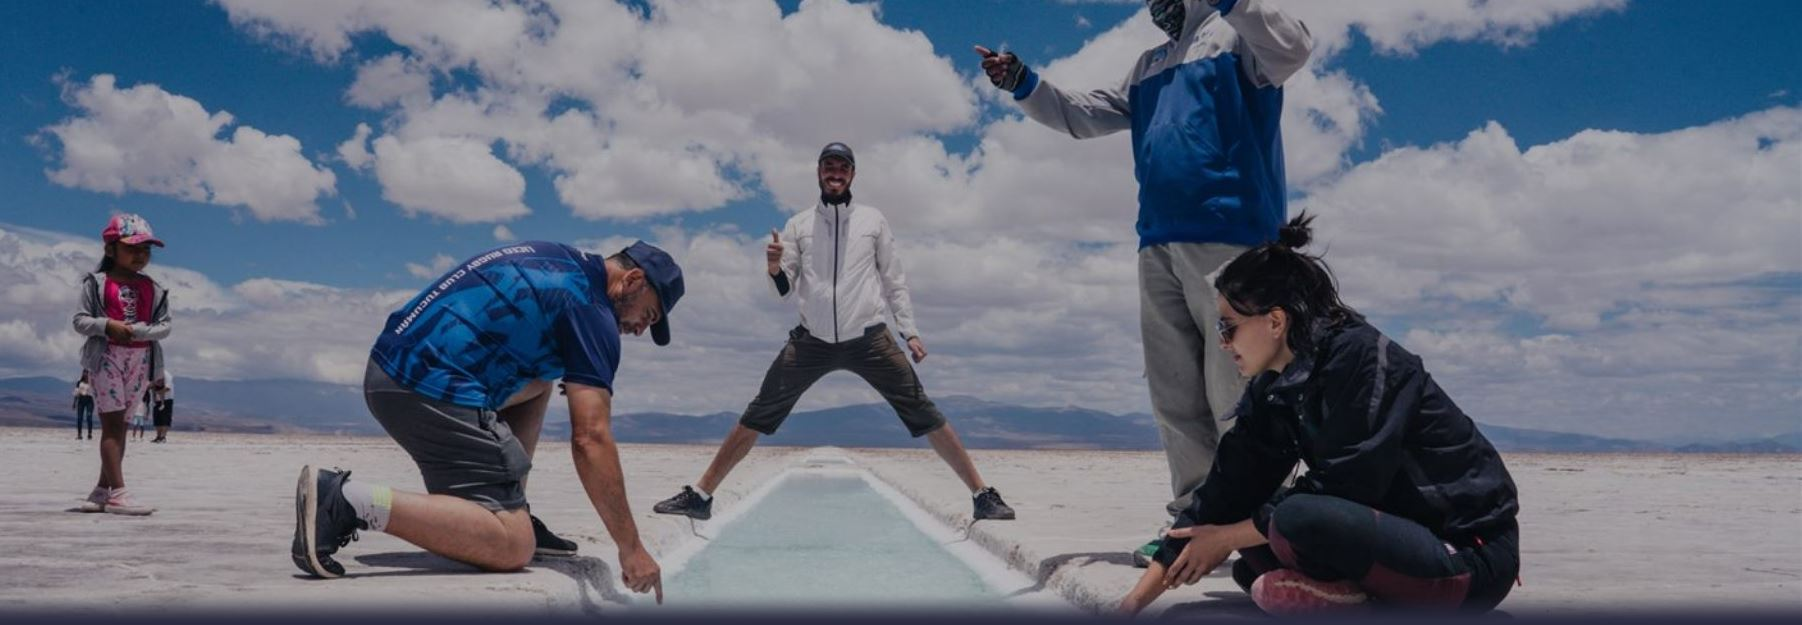
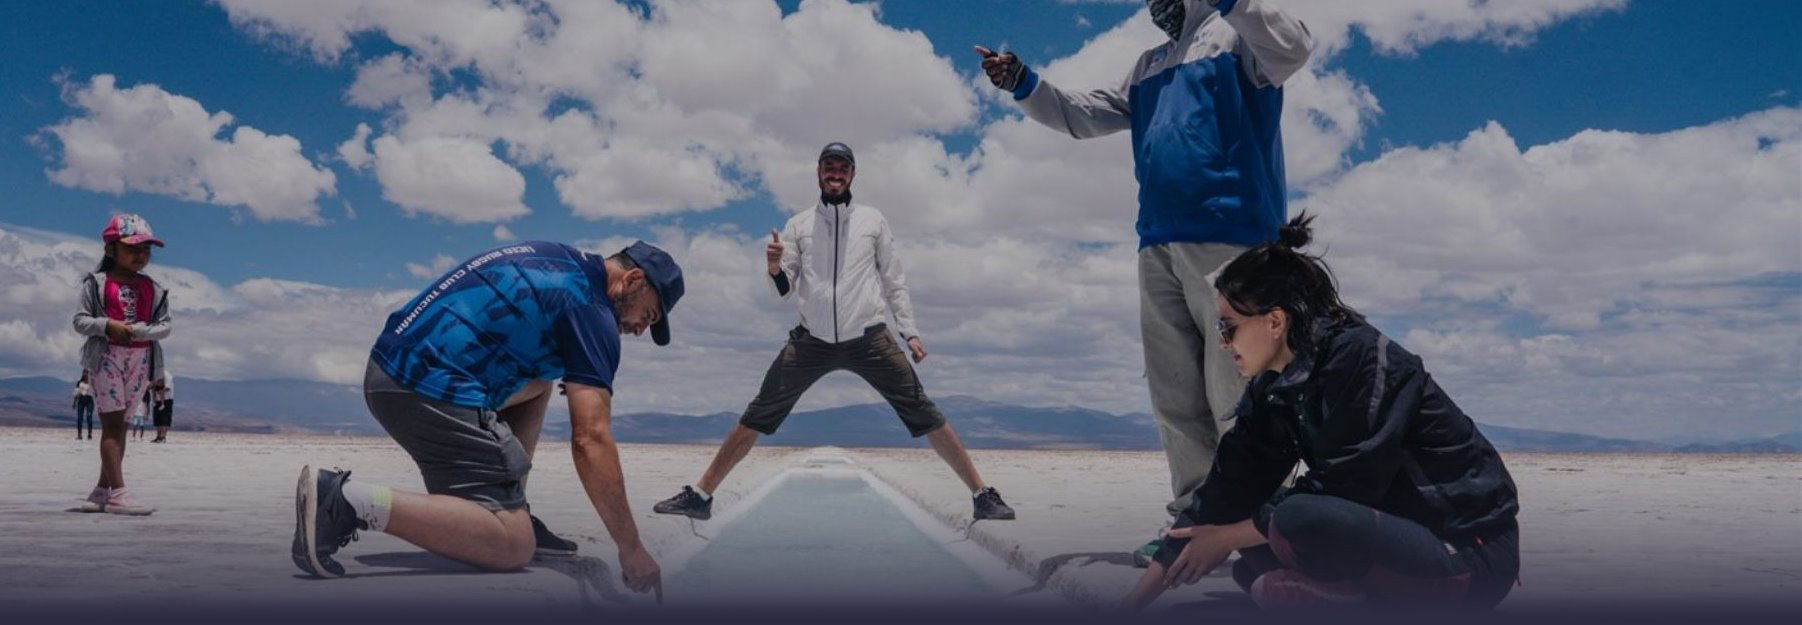
Las fotos van enteras: ni recortadas ni de a dos
Criterio de Lautaro, y vale para todo el sitio: una foto se elige por lo que
muestra, asi que recortarla se lleva justo eso. Cambia en tres lugares.

Ficha de excursion: la portada deja de tener alto fijo con object-fit:cover y
pasa a alto automatico, y deja de partirse en dos cuando hay una segunda foto.
Ahora va UNA sola, entera y a todo el ancho; la que sobra baja y aparece mas
abajo, tambien entera. Unico caso aparte: las verticales, que a todo el ancho
medirian un disparate de alto, se centran con un ancho sensato (lo marca un JS
cuando la foto carga). Tampoco se recortan.

Jujuy a tu medida: la portada de las llamas va entera y a todo el ancho. En
pantallas angostas el titulo baja debajo de la foto en vez de taparla.

Las fotos de region se rehicieron desde las originales con una franja de
degradado grabada al pie, mas marcada que la que traian: en Valles se colaban
el brillo del agua y una persona justo donde el bloque de color ya habia
empezado.

Y los anclas: la correccion de posicion valia solo para #experiencias, por eso
"Mapa" o "Quienes somos" desde una ficha parecian no llevar a ningun lado.
Ahora vale para las seis secciones.

Changed region(s): [[0.0, 0.8208, 1.0, 1.0]]

diff --git a/wwwroot/web/index.html b/wwwroot/web/index.html
@@ -284,7 +284,7 @@ section{padding:3.4rem 0}
 /* El menú de arriba es fijo. Sin esto, al tocar "Experiencias" el ancla deja el
    encabezado debajo de la barra y la sección arranca cortada: no se llegan a ver
    ni "Elegí tu aventura" ni el título. */
-#experiencias{scroll-margin-top:84px}
+#inicio,#experiencias,#mapa,#porque,#videos,#contacto{scroll-margin-top:84px}
 #experiencias .encabezado-seccion p{font-size:.94rem}
 /* "Jujuy a tu medida" entre los filtros. NO lleva la clase .filtro a propósito:
    esa clase la toma el JS que filtra el carrusel, y esto no filtra nada, lleva a
@@ -1693,9 +1693,15 @@ window.addEventListener("hashchange", abrirDesdeLaDireccion);
    JavaScript y la sección se va corriendo de lugar mientras se arman, así que una
    sola bajada cae en el lugar equivocado. Se corta sola al llegar, a los 2,5 s, o
    apenas la persona toca la rueda: si ya se está moviendo ella, manda ella. */
-if ((location.hash || "") === "#experiencias") {
-  var irAExperiencias = function () {
-    var s = document.getElementById("experiencias");
+/* Las secciones a las que llevan el menú y las fichas. Antes esto valía sólo para
+   #experiencias y por eso "Mapa" o "Quiénes somos" desde una ficha parecían no ir a
+   ningún lado: llegaban a la portada, pero el navegador calculaba el punto antes de
+   que terminaran de dibujarse las tarjetas y aterrizaba en cualquier parte. */
+var ANCLAS = ["inicio","experiencias","mapa","porque","videos","contacto"];
+var anclaInicial = (location.hash || "").replace("#", "");
+if (ANCLAS.indexOf(anclaInicial) >= 0) {
+  var irAlAncla = function () {
+    var s = document.getElementById(anclaInicial);
     if (!s) return;
     var hasta = Date.now() + 2500, corte = false;
     function frenar() { corte = true; }
@@ -1714,8 +1720,8 @@ if ((location.hash || "") === "#experiencias") {
     })();
   };
   // Si la página ya terminó de cargar, el evento "load" no vuelve a dispararse.
-  if (document.readyState === "complete") irAExperiencias();
-  else window.addEventListener("load", irAExperiencias);
+  if (document.readyState === "complete") irAlAncla();
+  else window.addEventListener("load", irAlAncla);
 }
 
 /* ═══ Formulario de contacto ═══

diff --git a/wwwroot/a-medida/index.html b/wwwroot/a-medida/index.html
@@ -76,16 +76,22 @@ h1,h2,h3{font-family:var(--display);font-weight:500;line-height:1.18;text-wrap:b
 }
 
 /* ── portada ── */
-/* La portada se muestra lo más entera posible: la foto son las llamas y recortarla
-   de más se lleva puesto justo lo que hay que ver. Sólo se recorta cuando la
-   pantalla es muy alta. */
-.hero{position:relative;aspect-ratio:1920/1254;max-height:76vh;min-height:340px;
-  display:flex;align-items:flex-end;overflow:hidden}
-.hero>img{position:absolute;inset:0;width:100%;height:100%;object-fit:cover}
-.hero::after{content:"";position:absolute;inset:0;
-  background:linear-gradient(to top,rgba(20,19,20,.93) 4%,rgba(20,19,20,.55) 42%,rgba(20,19,20,.1) 78%)}
-.hero .cont{position:relative;z-index:2;width:100%;max-width:860px;margin:0 auto;
-  padding:0 22px 44px;}
+/* La portada va ENTERA y a todo el ancho. Nada de recortarla: la foto son las
+   llamas y cualquier recorte se lleva puesto justo lo que hay que ver. El título
+   se apoya sobre el pie de la foto, que es donde el velo la oscurece. */
+.hero{position:relative}
+.hero>img{display:block;width:100%;height:auto}
+.hero::after{content:"";position:absolute;inset:0;pointer-events:none;
+  background:linear-gradient(to top,rgba(20,19,20,.93) 2%,rgba(20,19,20,.5) 30%,rgba(20,19,20,0) 62%)}
+.hero .cont{position:absolute;left:0;right:0;bottom:0;z-index:2;max-width:860px;margin:0 auto;
+  padding:0 22px 40px;}
+/* En pantallas angostas la foto queda bajita y el título no entra encima sin
+   taparla: ahí el texto baja y se apoya en el fondo de la página. */
+@media (max-width:620px){
+  .hero::after{display:none}
+  .hero .cont{position:static;padding:20px 22px 4px}
+  .hero .baja{text-shadow:none}
+}
 .hero h1{font-size:clamp(2.6rem,9vw,4.4rem);color:#fff;line-height:1.02;letter-spacing:-.01em}
 .hero .baja{color:#eceae4;opacity:.95;max-width:34ch;margin-top:16px;font-size:1.06rem;
   text-shadow:0 1px 14px rgba(14,12,11,.6)}

diff --git a/Program.cs b/Program.cs
@@ -1319,15 +1319,15 @@ p{color:rgba(236,229,212,.72);margin-bottom:28px}
         .Where(f => f != foto)
         .ToList();
 
-    // Portada: una sola foto, o dos mitades cuando hay con qué.
-    var tapa = galeria.Count > 0
-        ? $"""<div class="tapa doble"><img src="{Esc(foto)}" alt="{Esc(e.Nombre)}"><img src="{Esc(galeria[0])}" alt="{Esc(e.Nombre)}"></div>"""
-        : $"""<div class="tapa"><img src="{Esc(foto)}" alt="{Esc(e.Nombre)}"></div>""";
+    // Portada: UNA sola foto, entera y a todo el ancho. Nunca dos partidas al medio
+    // y nunca recortada: la foto se eligió por lo que muestra y el recorte se lleva
+    // justo eso. Si hay más fotos cargadas, van más abajo, de a una.
+    var tapa = $"""<div class="tapa"><img src="{Esc(foto)}" alt="{Esc(e.Nombre)}"></div>""";
 
     // Las que sobran se van intercalando a lo largo de la página, para que leer no sea
     // un paredón de texto. Hoy casi todas las excursiones tienen una sola foto cargada:
     // cuando se suban más desde el panel, aparecen solas acá.
-    var sueltas = galeria.Skip(1).ToList();
+    var sueltas = galeria.ToList();
     string FotoSuelta(int i) => i < sueltas.Count
         ? $"""<figure class="foto-larga"><img src="{Esc(sueltas[i])}" alt="{Esc(e.Nombre)}" loading="lazy"></figure>"""
         : "";
@@ -1597,31 +1597,24 @@ a{color:var(--dorado)}
    Antes la foto entraba entera dentro de un recuadro angosto y los costados se
    rellenaban con una copia borrosa: quedaba flotando, chiquita y con dos franjas
    grises al costado. Ahora va de borde a borde y llena todo el ancho de la pantalla.
-   Se recorta arriba y abajo (object-fit:cover) y se encuadra por el centro, que es
-   donde está el motivo en todas las fotos que usamos. */
-.tapa{position:relative;overflow:hidden;width:100%;
-      height:clamp(260px,46vw,520px);background:#0d1512}
-.tapa img{width:100%;height:100%;object-fit:cover;object-position:center;display:block}
+   Y va entera: el alto lo decide la foto, no el diseño. */
+.tapa{position:relative;width:100%;background:#0d1512;line-height:0}
+/* ENTERA, nunca recortada. Antes tenía un alto fijo con object-fit:cover y se
+   comía la mitad de la foto. Ahora manda la foto: ocupa todo el ancho y el alto
+   sale solo. */
+.tapa img{display:block;width:100%;height:auto}
+/* Las verticales son el único caso que no puede ir a todo el ancho: a 1400 px de
+   pantalla una foto 9:16 mediría más de dos metros de alto. Se centran con un
+   ancho razonable, pero tampoco se recortan. La clase la pone el JS de más abajo
+   cuando la foto termina de cargar y se sabe cómo es. */
+.tapa.alta img{max-width:min(100%,560px);margin:0 auto}
 /* Un velo apenas perceptible arriba y abajo: despega la portada de la barra de
    navegación y del fondo, sin tapar la foto. */
 .tapa::after{content:"";position:absolute;inset:0;pointer-events:none;
       background:linear-gradient(180deg,rgba(13,21,18,.30),rgba(13,21,18,0) 34%,rgba(13,21,18,.45))}
-/* Portada partida en dos cuando hay una segunda foto cargada. Es lo que salva a las
-   fotos verticales: a lo ancho se les recorta media imagen, y de a dos entran casi
-   enteras y se ven las dos cosas (el angosto y la cascada, por ejemplo). */
-.tapa.doble{display:grid;grid-template-columns:1fr 1fr;gap:3px}
-.tapa.doble img{height:100%}
-/* En el celular un poco más alta en proporción, para que la foto respire. Y la
-   portada doble vuelve a una sola foto: dos mitades en una pantalla angosta quedan
-   como dos tiritas donde no se ve nada. */
-@media (max-width:560px){
-  .tapa{height:62vw}
-  .tapa.doble{grid-template-columns:1fr}
-  .tapa.doble img:nth-child(2){display:none}
-}
-/* Las fotos que se van intercalando mientras se lee. Van a todo el ancho del texto. */
-.foto-larga{margin:26px 0;border-radius:16px;overflow:hidden;background:#0d1512}
-.foto-larga img{width:100%;height:clamp(200px,34vw,340px);object-fit:cover;display:block}
+/* Las fotos que se van intercalando mientras se lee. También enteras. */
+.foto-larga{margin:26px 0;border-radius:16px;overflow:hidden;background:#0d1512;line-height:0}
+.foto-larga img{display:block;width:100%;height:auto}
 
 /* ── El menú del sitio, igual que en la portada ──────────────────────────
    La ficha estaba suelta: sin menú no se podía ir al mapa, al blog ni a contacto
@@ -1757,6 +1750,18 @@ li{margin:7px 0}
   // páginas aparezcan en Analytics junto a las otras y con el nombre de la excursión.
   // El nombre viaja en un atributo (y no escrito acá adentro) para que un apóstrofo
   // en el nombre no rompa el script.
+
+  // Una foto vertical a todo el ancho mide un disparate de alto. No se recorta
+  // (eso no se hace acá): se le pone un ancho sensato y se centra. Hay que esperar
+  // a que cargue para saber cómo es, y contemplar que ya esté en la caché.
+  (function(){
+    var im = document.querySelector('.tapa img');
+    if (!im) return;
+    var ver = function(){
+      if (im.naturalHeight > im.naturalWidth) im.parentNode.classList.add('alta');
+    };
+    if (im.complete && im.naturalWidth) ver(); else im.addEventListener('load', ver);
+  })();
   document.getElementById('wpp').addEventListener('click', function(){
     try { if (typeof gtag === 'function')
       gtag('event','clic_whatsapp',{ desde:'ficha', excursion:this.dataset.excursion }); } catch(e){}
